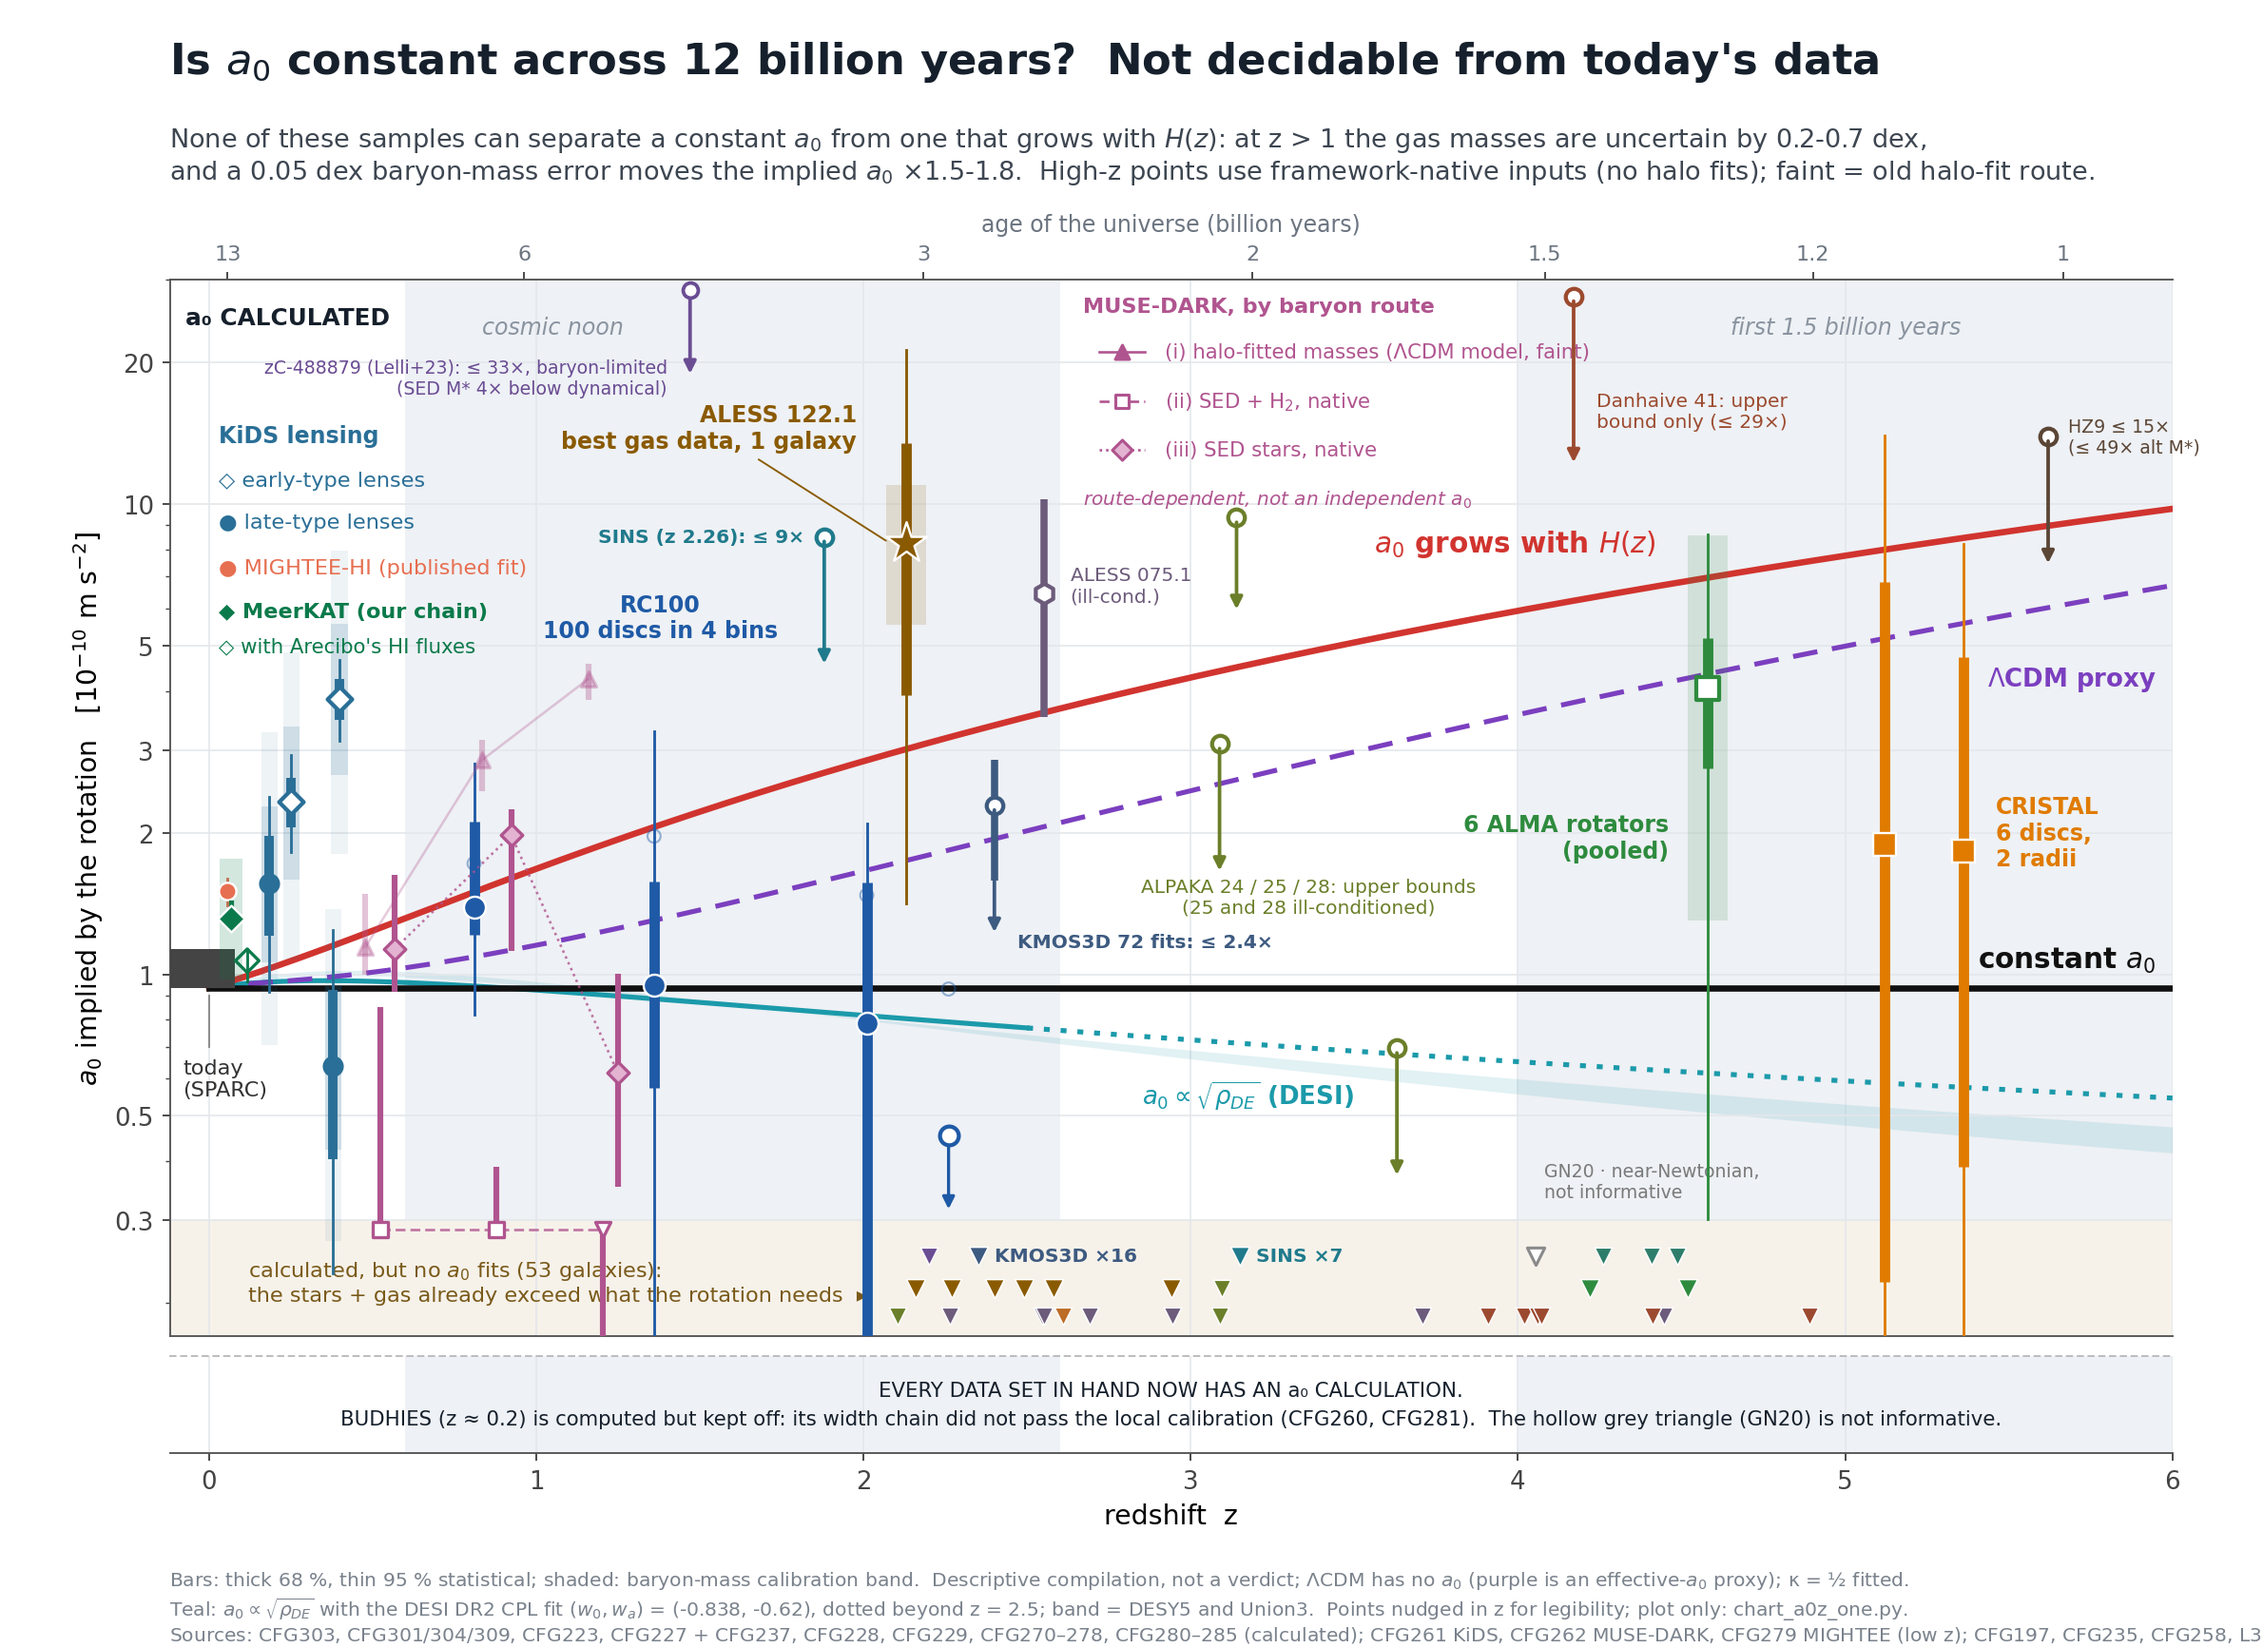
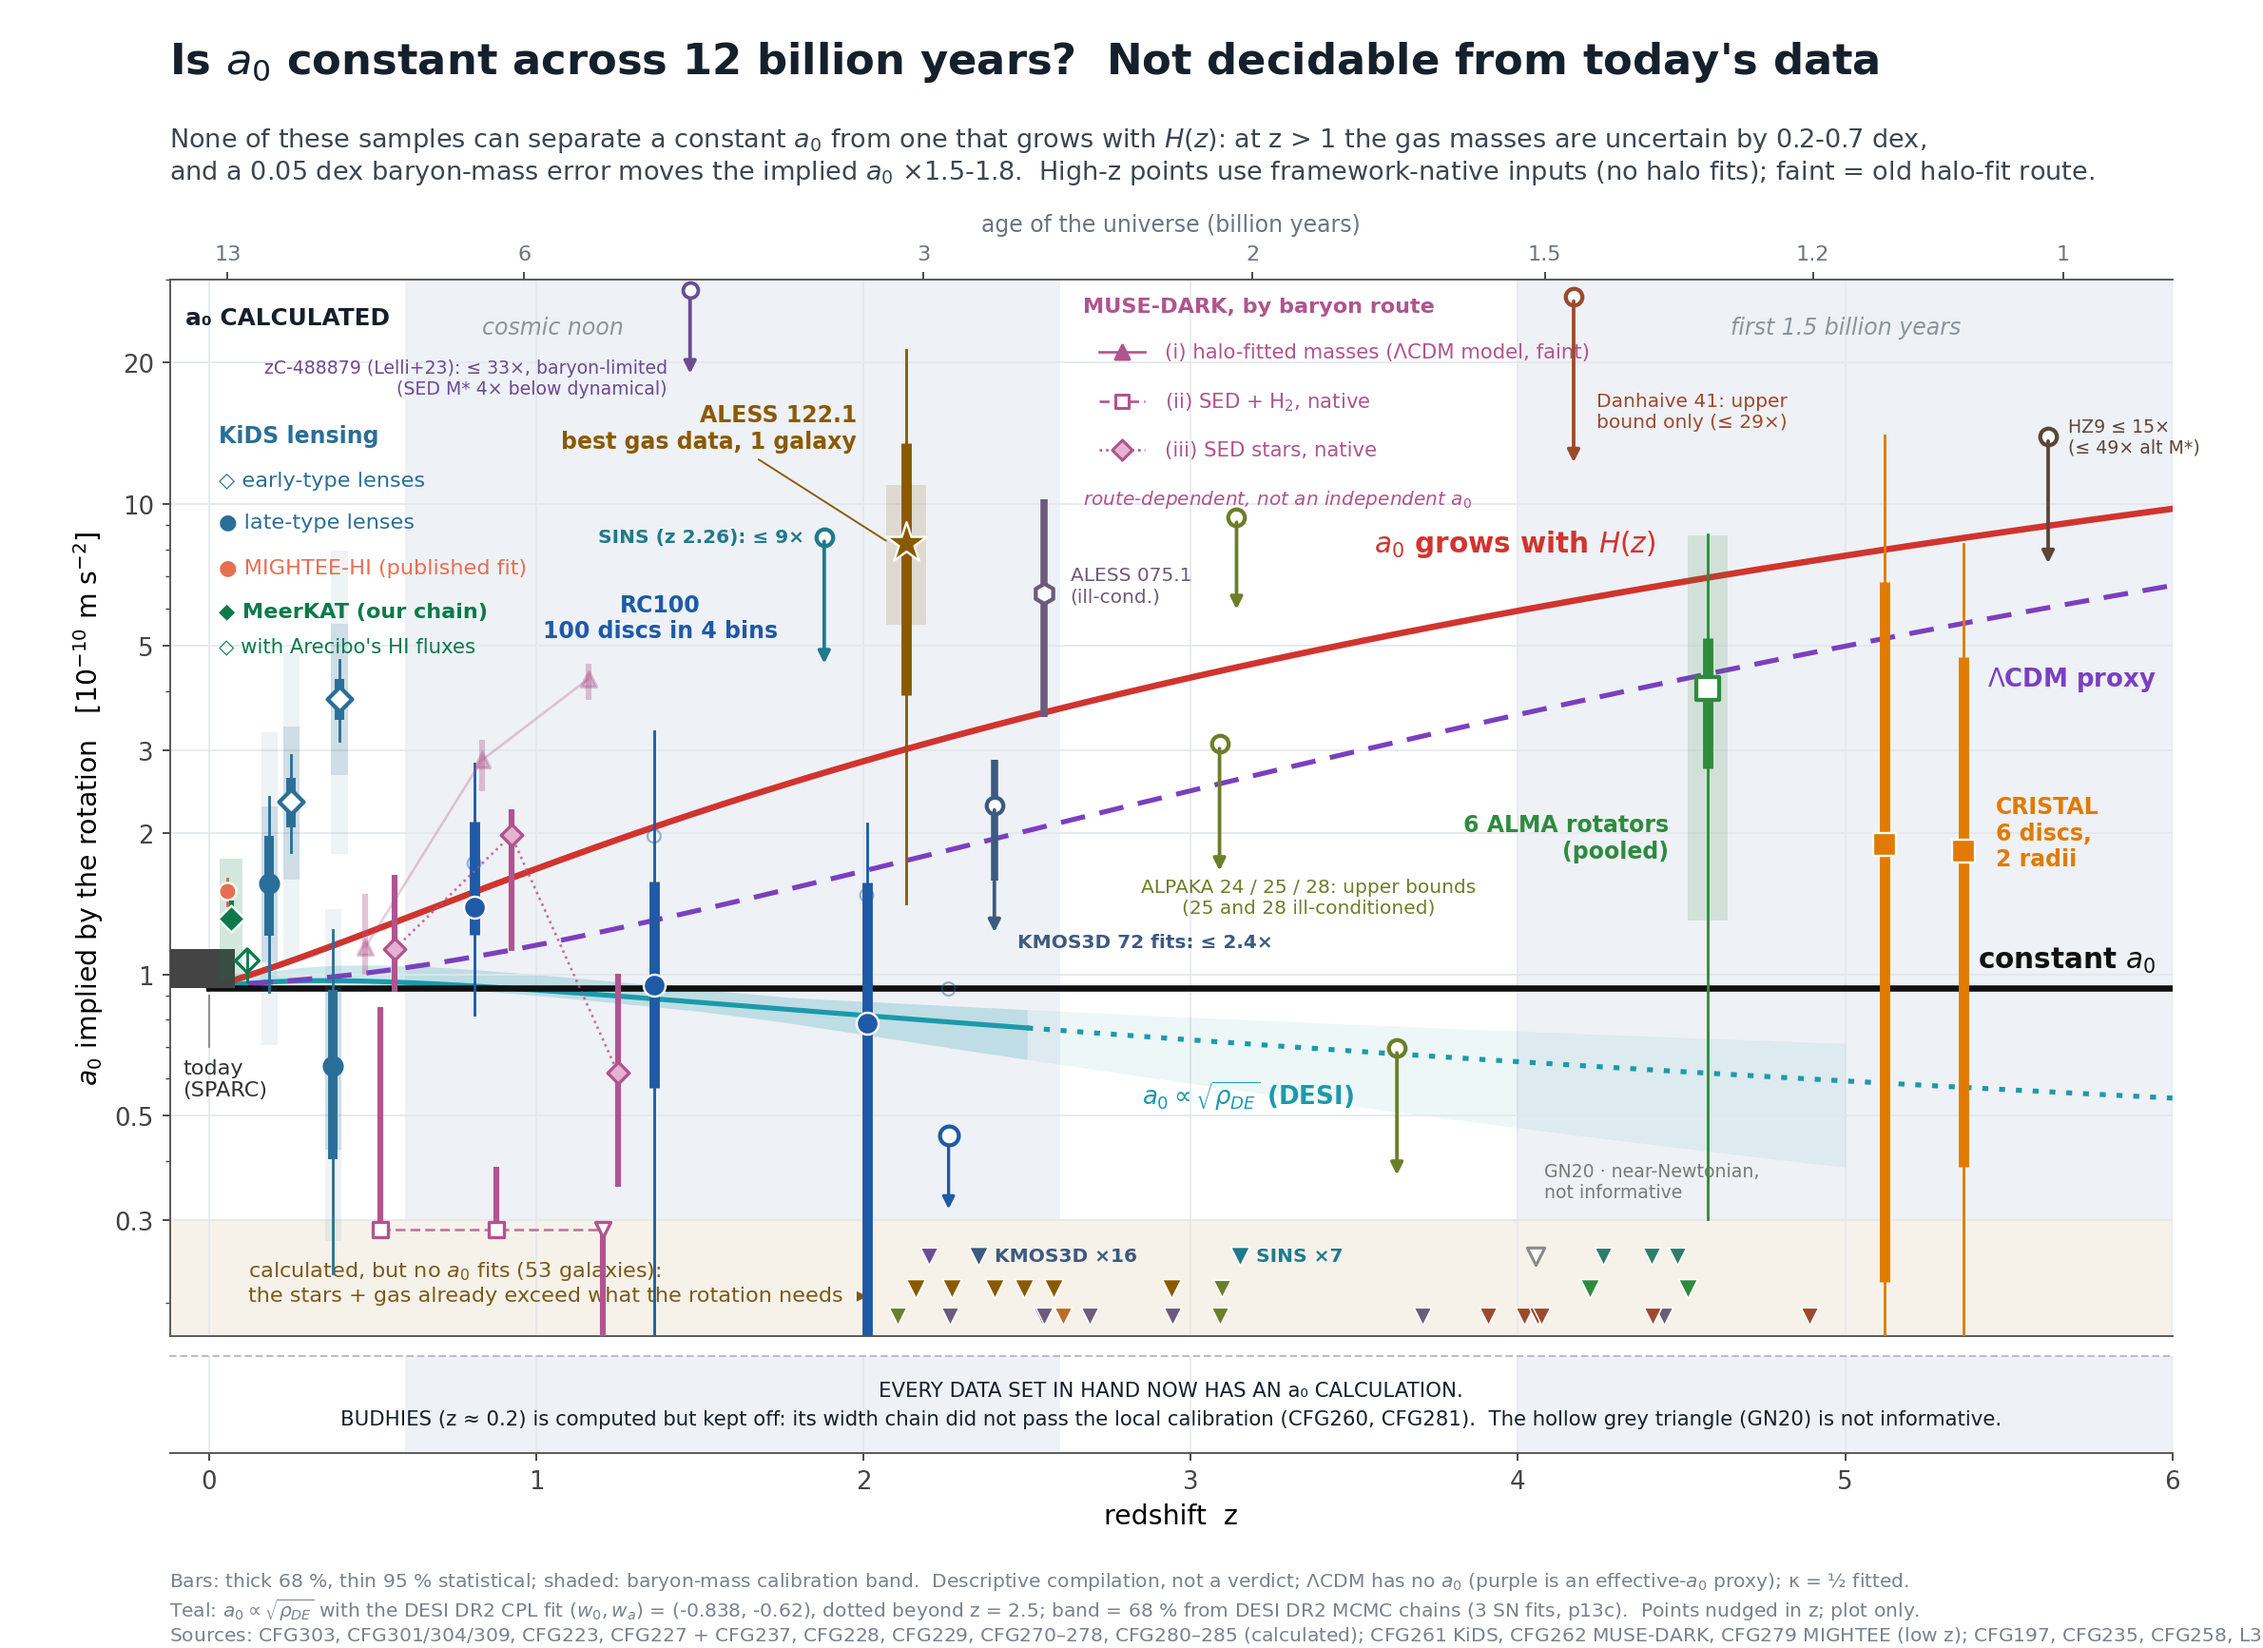
CHART one-chart: the teal a0 ~ sqrt(rho_DE) band is now the 68% posterior from the DESI DR2 MCMC chains (p13c, 5c037358f; envelope of DESI+CMB+Pantheon+/Union3/DESY5), solid to z = 2.5 and faint beyond (CPL extrapolation), replacing the spread between two central curves; the teal line (Pantheon+ cen

Changed region(s): [[0.4975, 0.966, 0.8395, 0.9971], [0.2176, 0.592, 0.4664, 0.6544], [0.8084, 0.6544, 0.9639, 0.7167]]

diff --git a/campaign_fresh_gravity/CHART_a0z_rar_z0_5_2026-10-01/chart_a0z_one.py b/campaign_fresh_gravity/CHART_a0z_rar_z0_5_2026-10-01/chart_a0z_one.py
@@ -113,9 +113,21 @@ for x0, x1, t in ((0.6, 2.6, "cosmic noon"), (4.0, 6.0, "first 1.5 billion years
     ax.text(1.05 if t == "cosmic noon" else (x0 + x1) / 2, 23, t, ha="center", color="#8a94a0", fontsize=10, style="italic")
 ax.axhspan(YLO, 0.30, color="#f6f2ea", zorder=0, lw=0)
 m = Zc <= XHI
-lo_b = np.minimum(np.array(cur["DESI DESY5"]), np.array(cur["DESI Union3"]))[m] * U
-hi_b = np.maximum(np.array(cur["DESI DESY5"]), np.array(cur["DESI Union3"]))[m] * U
-ax.fill_between(Zc[m], lo_b, hi_b, color=LAW["M-DEC"], alpha=0.13, lw=0, zorder=1)
+# band: 68% posterior of a0(z)/a0(0) = sqrt(rho_DE(z)/rho_DE0) from the DESI DR2 MCMC chains (p13c, 5c037358f),
+# envelope of the three SN-anchored fits (DESI+CMB+Pantheon+/Union3/DESY5); solid to z = 2.5, faint beyond (CPL extrapolation)
+P13C = list(csv.DictReader(open(os.path.join(ROOT, "sonnet55_push", "puzzle_32pi", "p13c_desi_dr2_chains_a0z.csv"))))
+SNF = ("DESI+CMB+Pantheon+", "DESI+CMB+Union3", "DESI+CMB+DESY5")
+zb = np.array(sorted({float(r["z"]) for r in P13C}))
+q = {(r["fit"], float(r["z"])): r for r in P13C}
+lo_b = np.array([min(float(q[(F, z)]["q16"]) for F in SNF) for z in zb]) * U
+hi_b = np.array([max(float(q[(F, z)]["q84"]) for F in SNF) for z in zb]) * U
+check("p13c DESI DR2 chain band: medians at z = 2.5 are 0.827 / 0.782 / 0.798 (Pantheon+ / Union3 / DESY5) and every 68% band is below 1 there (5c037358f)",
+      [round(float(q[(F, 2.5)]["q50"]), 3) for F in SNF] == [0.827, 0.782, 0.798] and all(float(q[(F, 2.5)]["q84"]) < 1 for F in SNF))
+check("the teal line (Pantheon+ central CPL) lies inside the chain band at z = 0.5, 1, 2, 2.5",
+      all(np.interp(z, zb, lo_b) <= np.interp(z, Zc, cur["M-DEC"]) * U <= np.interp(z, zb, hi_b) for z in (0.5, 1.0, 2.0, 2.5)))
+s1 = zb <= 2.5
+ax.fill_between(zb[s1], lo_b[s1], hi_b[s1], color=LAW["M-DEC"], alpha=0.22, lw=0, zorder=1)
+ax.fill_between(zb[zb >= 2.5], lo_b[zb >= 2.5], hi_b[zb >= 2.5], color=LAW["M-DEC"], alpha=0.08, lw=0, zorder=1)
 md = np.array(cur["M-DEC"])[m] * U; zz = Zc[m]
 ax.plot(zz[zz <= 2.5], md[zz <= 2.5], color=LAW["M-DEC"], lw=2.2, zorder=2)
 ax.plot(zz[zz >= 2.5], md[zz >= 2.5], color=LAW["M-DEC"], lw=2.2, ls=(0, (1.2, 2.2)), zorder=2)
@@ -375,7 +387,7 @@ fig.text(0.075, 0.905, "None of these samples can separate a constant $a_0$ from
          "and a 0.05 dex baryon-mass error moves the implied $a_0$ ×1.5-1.8.  High-z points use framework-native inputs (no halo fits); faint = old halo-fit route.",
          fontsize=11.5, color="#3d4651", va="center")
 fig.text(0.075, 0.004, "Bars: thick 68 %, thin 95 % statistical; shaded: baryon-mass calibration band.  Descriptive compilation, not a verdict; "
-         "ΛCDM has no $a_0$ (purple is an effective-$a_0$ proxy); κ = ½ fitted.\nTeal: $a_0 \\propto \\sqrt{\\rho_{DE}}$ with the DESI DR2 CPL fit ($w_0, w_a$) = (-0.838, -0.62), dotted beyond z = 2.5; band = DESY5 and Union3.  Points nudged in z for legibility; plot only: chart_a0z_one.py.\nSources: CFG303, CFG301/304/309, CFG223, CFG227 + CFG237, CFG228, CFG229, CFG270–278, CFG280–285 (calculated); CFG261 KiDS, CFG262 MUSE-DARK, CFG279 MIGHTEE (low z); CFG197, CFG235, CFG258, L328 (no $a_0$ value).",
+         "ΛCDM has no $a_0$ (purple is an effective-$a_0$ proxy); κ = ½ fitted.\nTeal: $a_0 \\propto \\sqrt{\\rho_{DE}}$ with the DESI DR2 CPL fit ($w_0, w_a$) = (-0.838, -0.62), dotted beyond z = 2.5; band = 68 % from DESI DR2 MCMC chains (3 SN fits, p13c).  Points nudged in z; plot only.\nSources: CFG303, CFG301/304/309, CFG223, CFG227 + CFG237, CFG228, CFG229, CFG270–278, CFG280–285 (calculated); CFG261 KiDS, CFG262 MUSE-DARK, CFG279 MIGHTEE (low z); CFG197, CFG235, CFG258, L328 (no $a_0$ value).",
          fontsize=8.6, color="#7a828c")
 fig.savefig(os.path.join(HERE, "chart_a0z_one_2026-10-01.png"), dpi=170)
 P(f"{sum(CHECKS)}/{len(CHECKS)} checks pass; wrote chart_a0z_one_2026-10-01.png")
